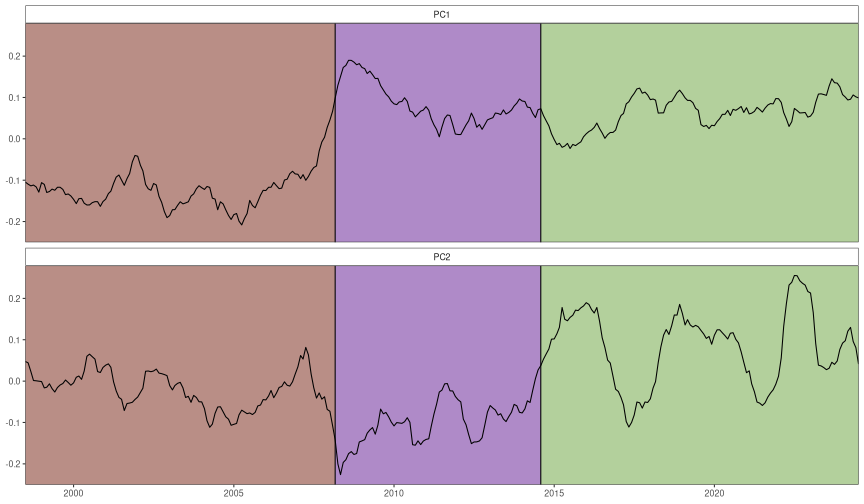
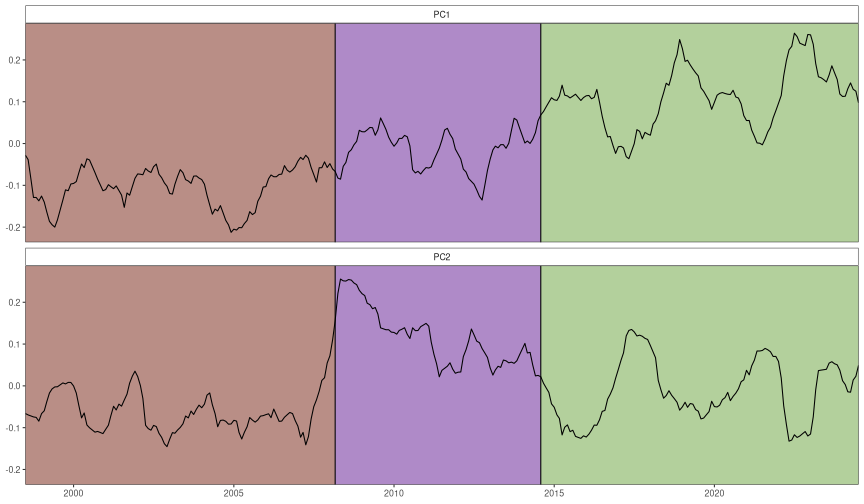
Update long-term trajectory of zooplankton to the new data

diff --git a/Output/Notebooks/zooplankton_longterm_trajectory.md b/Output/Notebooks/zooplankton_longterm_trajectory.md
@@ -1,6 +1,6 @@
 # Display the long-term trajectory of the zooplankton community
 Lucien Bastin
-2026-10-30
+2026-11-04
 
 - [Libraries and data](#libraries-and-data)
   - [Libraries](#libraries)
